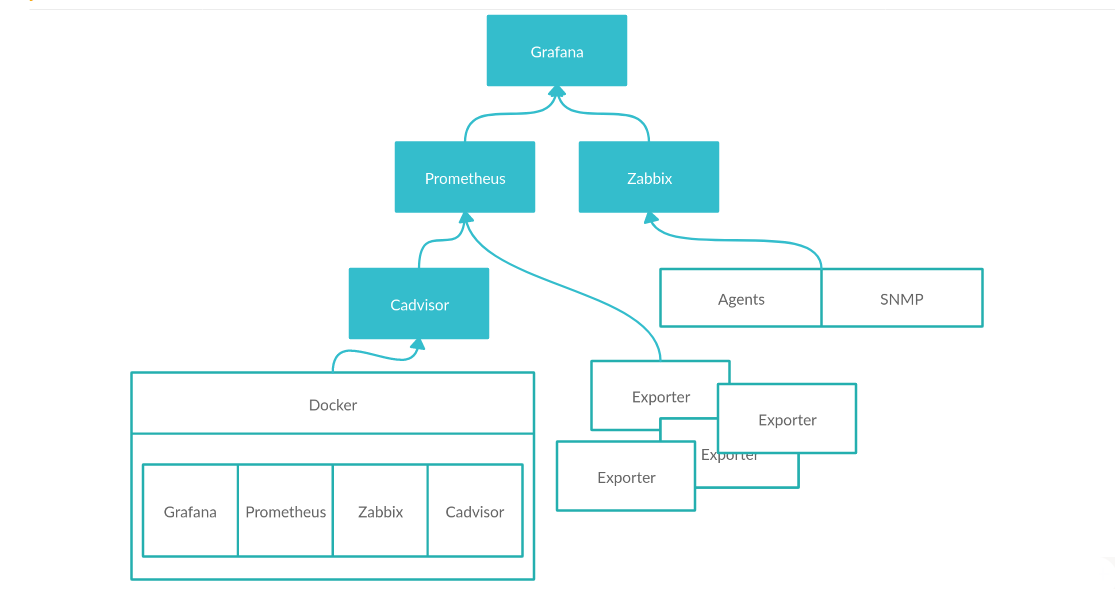
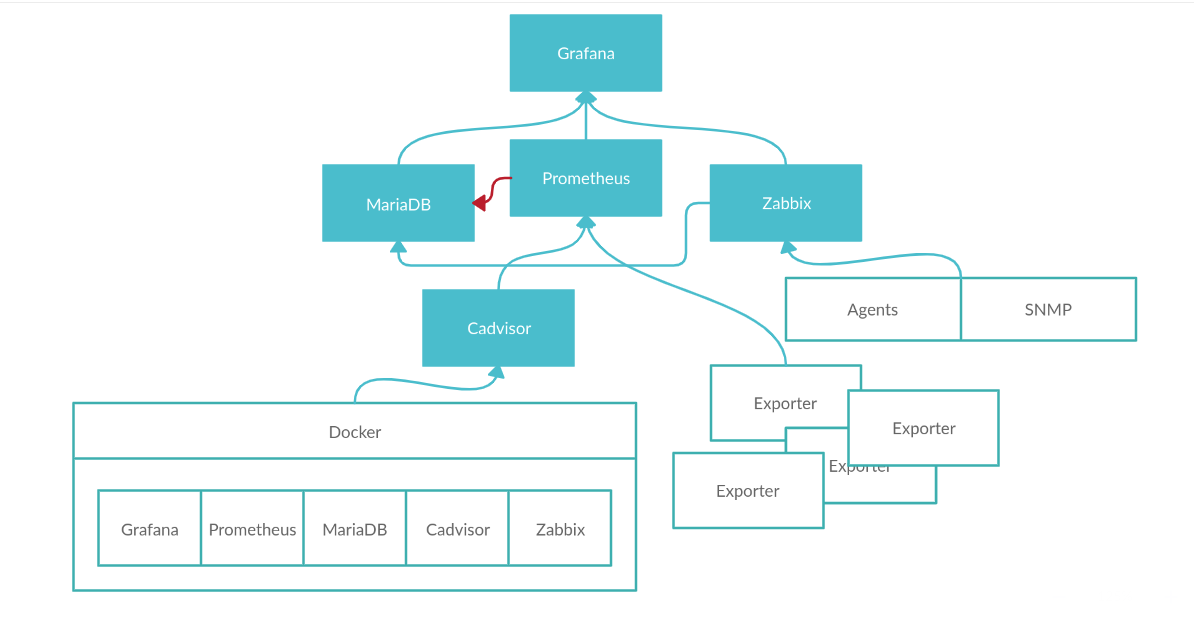
0.1.1

diff --git a/README.md b/README.md
@@ -1,4 +1,4 @@
-# Monitor-Discovery
+# Monitoring2
  
 ![](img/schema.png)
  
@@ -6,9 +6,9 @@ Ferramentas de monitoramento de hosts, containers e serviços
  
 - Docker
 - Grafana
-- Prometheus (Node_Exporter's)
+- MariaDB
+- Prometheus (Node_Exporter's e Cadvisor)
 - Zabbix (Zabbix agents e SNMP)
-- Cadvisor
  
 Infraestrutura
 
@@ -21,11 +21,11 @@ Instalação do Docker e iniciando o cluster Swarm
 # docker swarm init
 ```
  
-Clonado o repositório monitor-discovery
+Clonado o repositório monitoring2
 ```
-# git clone https://github.com/madson7/monitor-discovery.git
+# git clone https://github.com/madson7/monitoring2.git
  
-# cd monitor-discovery
+# cd monitoring2
 ```
  
 Build da imagem do Promotheus
@@ -34,25 +34,19 @@ Build da imagem do Promotheus
 ```
 Diretorios persistentes para o Zabbix
 ```
-# mkdir -p \
-    ./zbx_env/usr/lib/zabbix/alertscripts \
-    ./zbx_env/usr/lib/zabbix/externalscripts \
-    ./zbx_env/var/lib/zabbix/export \
-    ./zbx_env/var/lib/zabbix/modules \
-    ./zbx_env/var/lib/zabbix/enc \
-    ./zbx_env/var/lib/zabbix/ssh_keys \
-    ./zbx_env/var/lib/zabbix/mibs \
-    ./zbx_env/var/lib/zabbix/snmptraps \
-    ./zbx_env/var/lib/mysql
-```
+
 Deploy Stack com Docker Swarm
 ```
-# docker stack deploy -c docker-compose.yml discovery
+# docker stack deploy -c docker-compose.ymling2
 ```
  
 Status dos serviços
 ```
 # docker service ls
+```
+Configurando o banco SQL
+```
+mysql -uroot -h192.168.0.7 -p < ./conf/mysql/datadb.sql
 ```
  
 Iniciar o Node do Mikrotik
